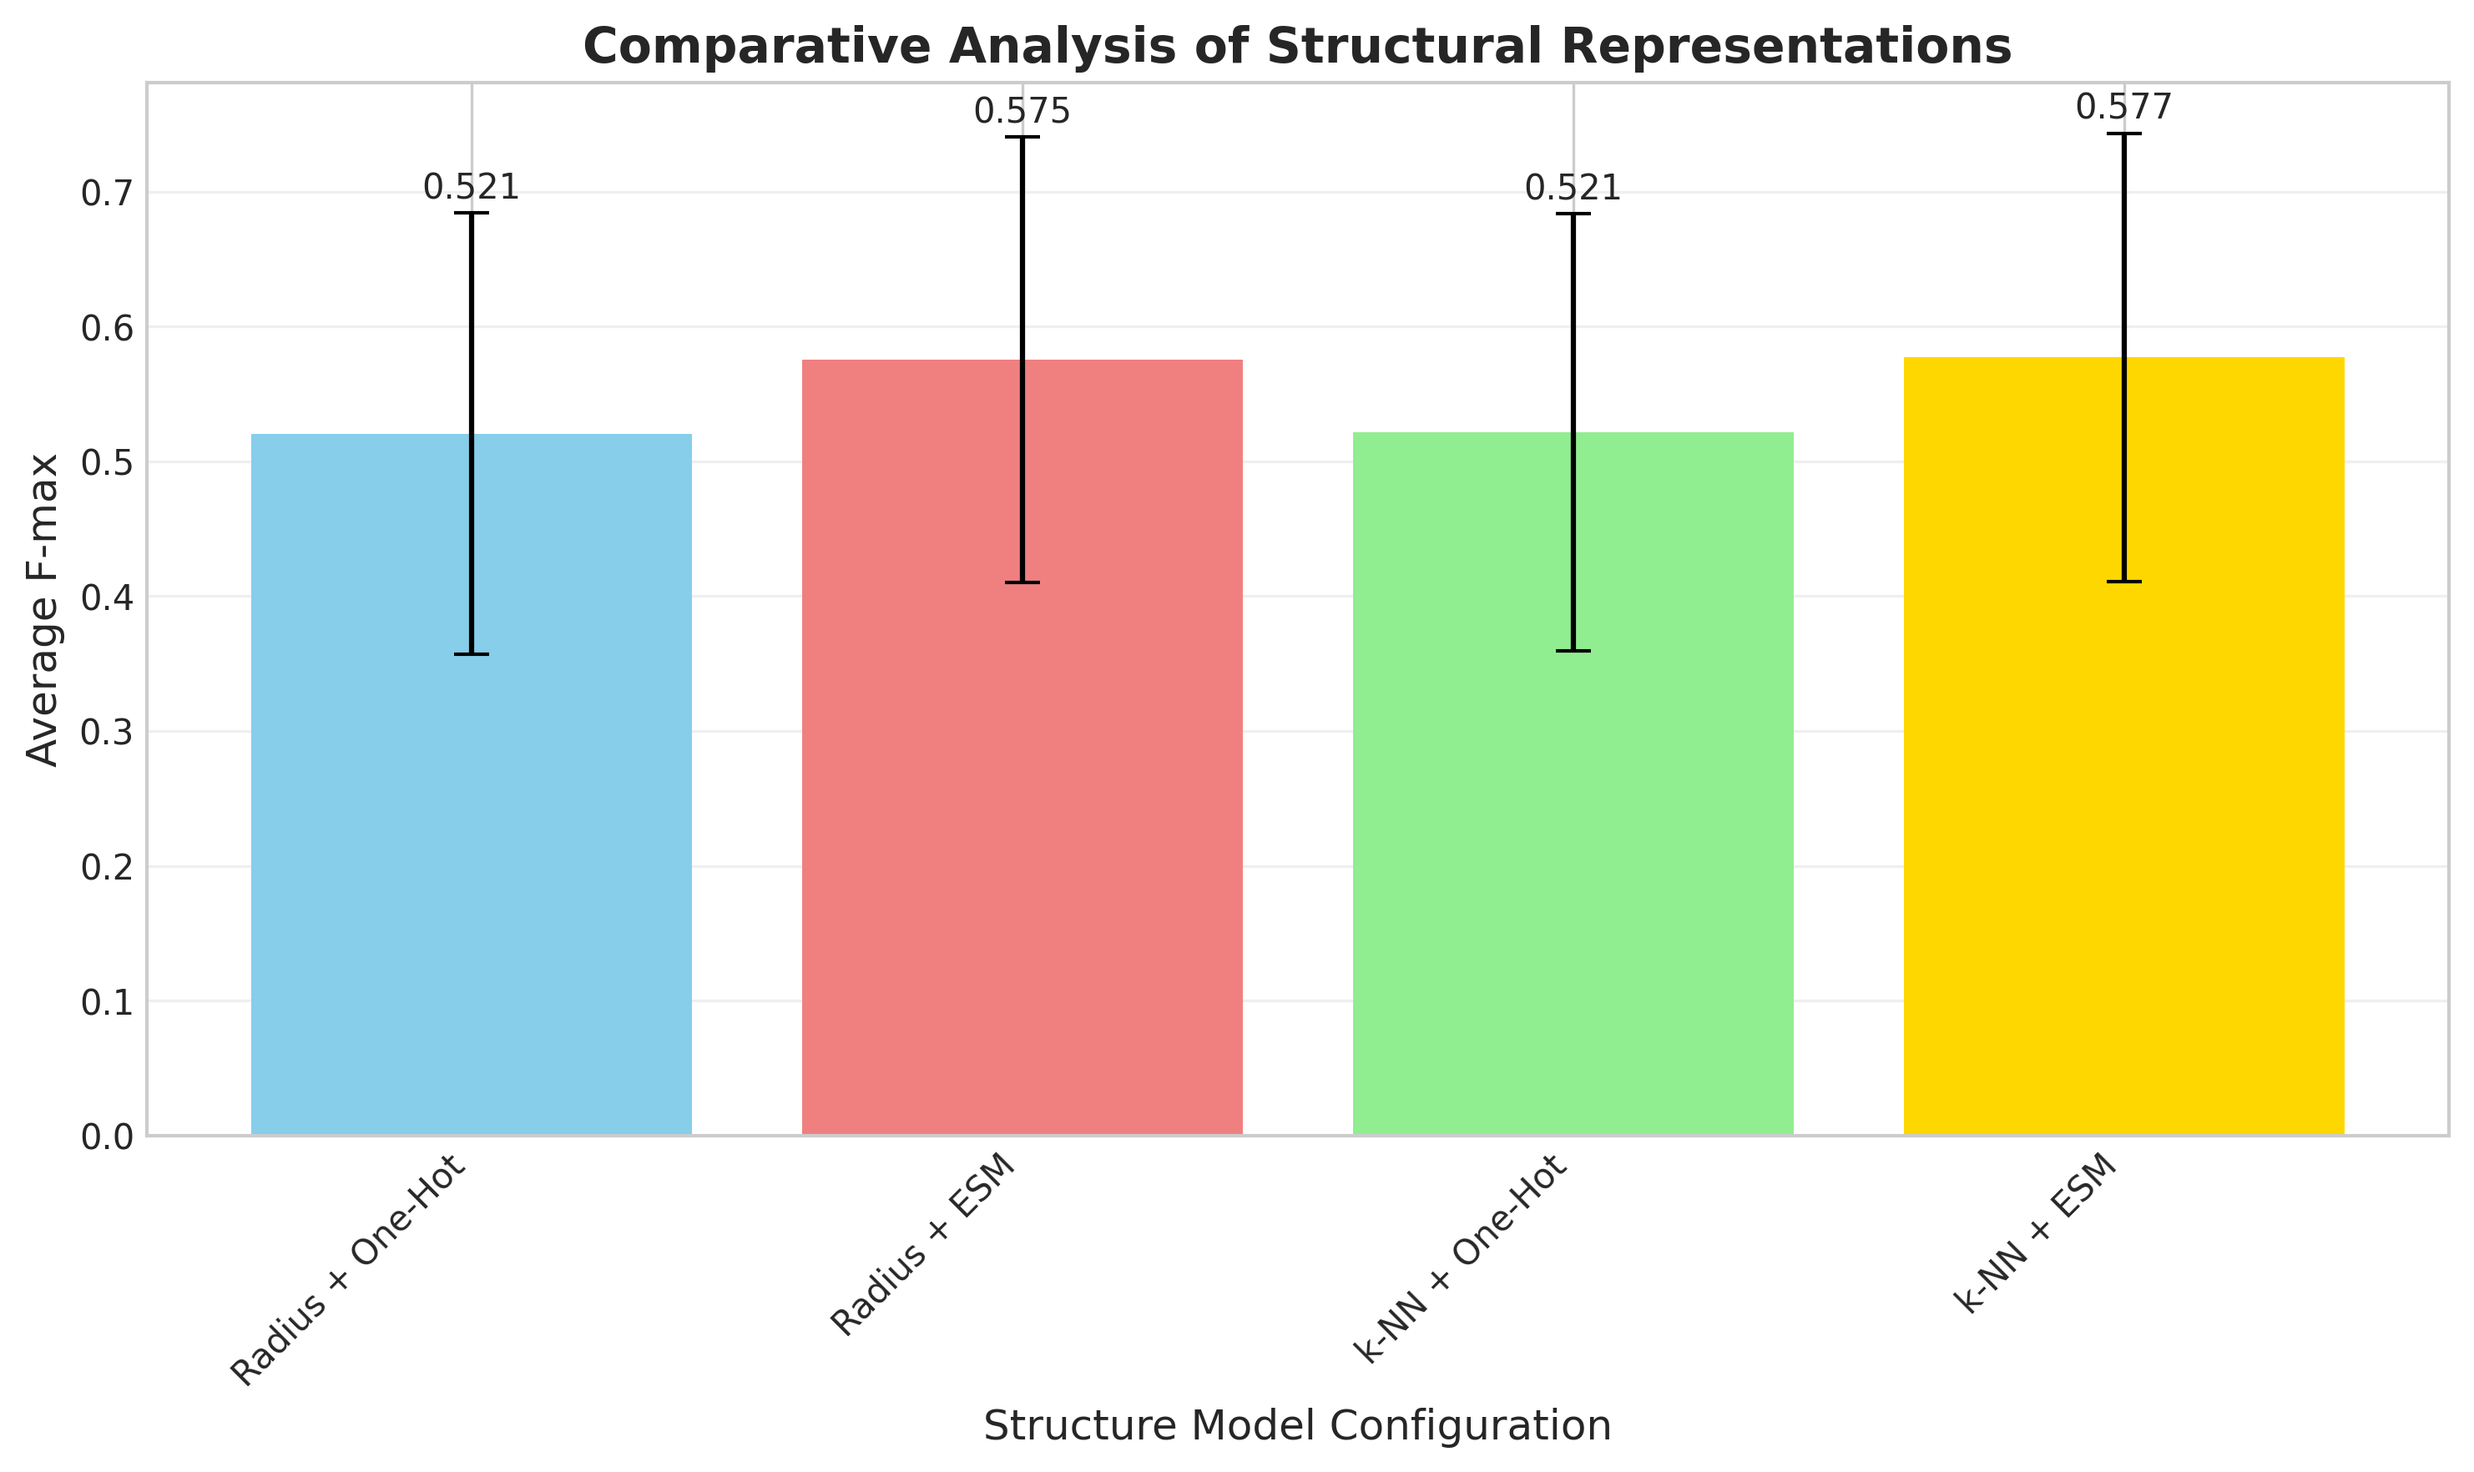
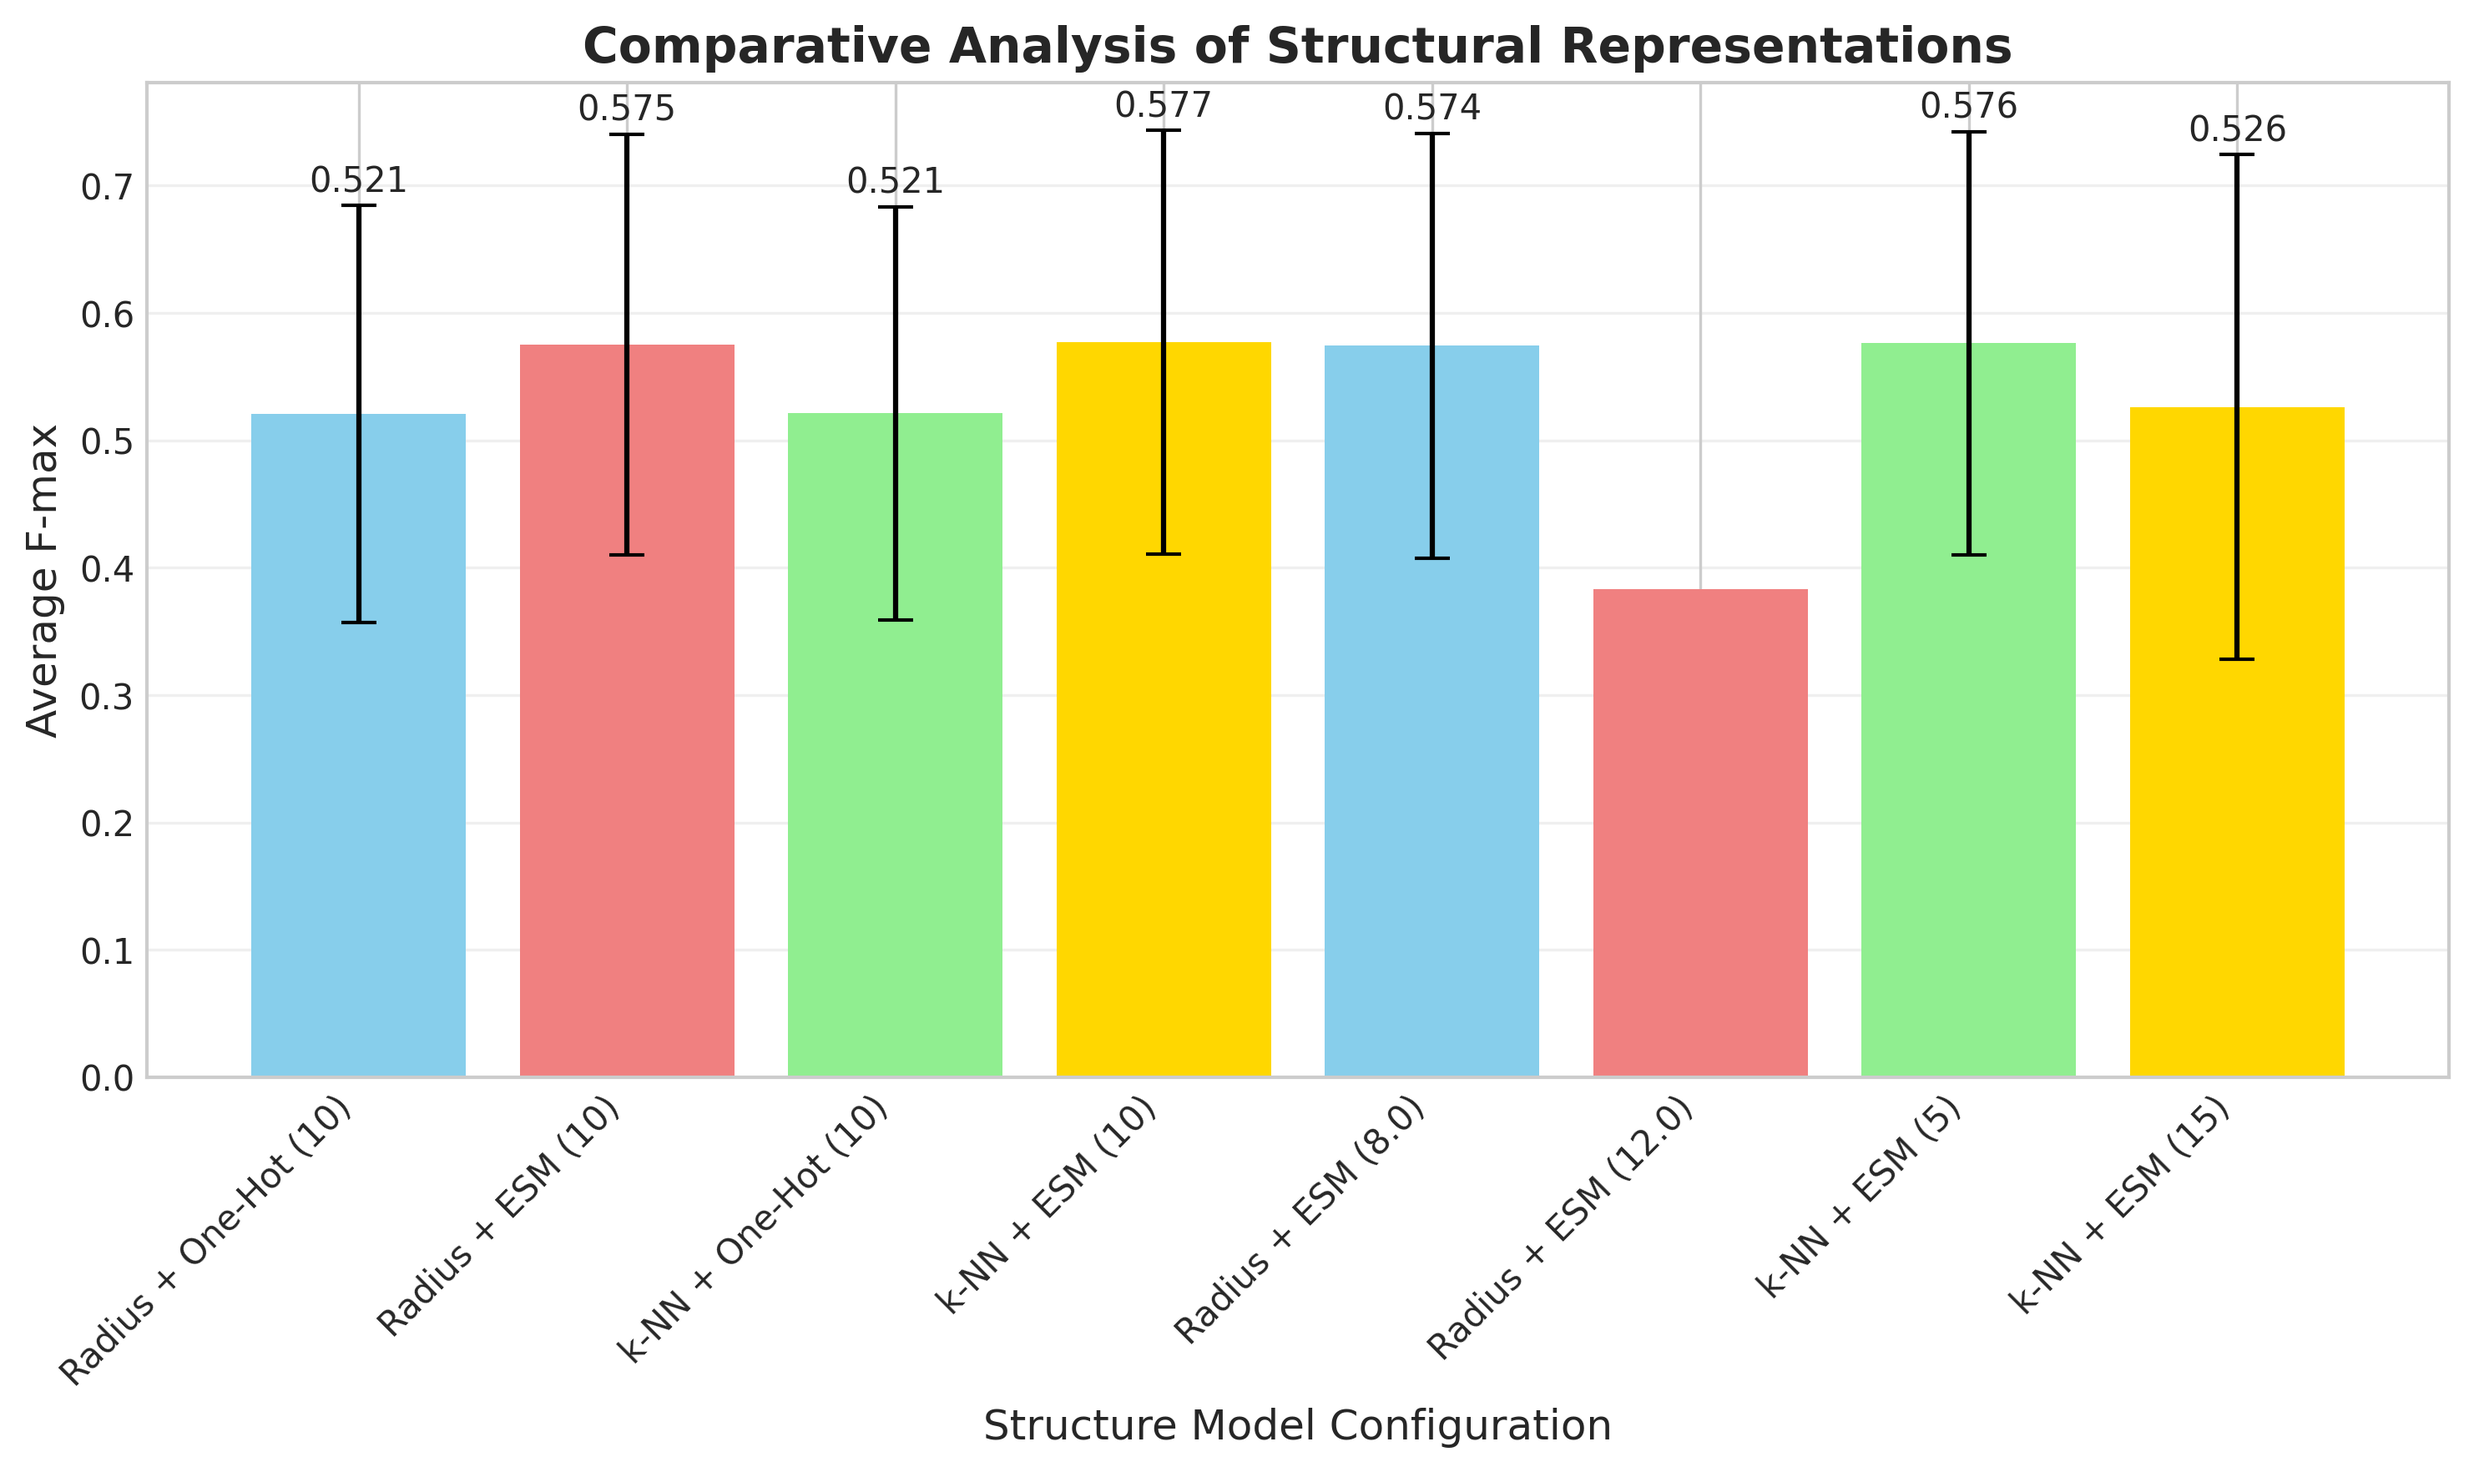
up2date

diff --git a/experiments/multimodal_comparison/experiment_pipeline.py b/experiments/multimodal_comparison/experiment_pipeline.py
@@ -25,16 +25,20 @@ from tqdm import tqdm
 MODEL_NAME_MAP = {
     'A': 'ESM-only',
     'B': 'Text-only',
-    'C1': 'Structure (Radius + One-Hot)',
-    'C2': 'Structure (Radius + ESM)',
-    'C3': 'Structure (k-NN + One-Hot)',
-    'C4': 'Structure (k-NN + ESM)',
+    'C1': 'Structure (Radius + One-Hot) (10.0)',
+    'C2': 'Structure (Radius + ESM) (10.0)',
+    'C3': 'Structure (k-NN + One-Hot) (10.0)',
+    'C4': 'Structure (k-NN + ESM)(10.0)',
     'D': 'ESM + Text',
     'E': 'ESM + Structure',
     'F': 'Full Model',
     'G': 'ESM + Text + Attention',
     'H': 'ESM + Structure + Attention',
     'I': 'Full Model + Attention',
+    'C22': 'Radius + ESM (8.0)',
+    'C23': 'Radius + ESM (12.0)',
+    'C42': 'k-NN + ESM (5)',
+    'C43': 'k-NN + ESM (15)',
 }
 
 # Add project root to path
@@ -274,6 +278,7 @@ class ExperimentGenerator:
                 'radius': 10.0,
                 'use_esm_features': False
             },
+
             # C2: Radius Graph + ESM
             {
                 'name': 'C2_Radius_ESM',
@@ -281,6 +286,19 @@ class ExperimentGenerator:
                 'radius': 10.0,
                 'use_esm_features': True
             },
+            {
+                'name': 'C22_Radius_ESM',
+                'type': 'radius',
+                'radius': 8.0,
+                'use_esm_features': True
+            },
+            {
+                'name': 'C23_Radius_ESM',
+                'type': 'radius',
+                'radius': 12.0,
+                'use_esm_features': True
+            },
+
             # C3: k-NN Graph + One-Hot
             {
                 'name': 'C3_kNN_OneHot',
@@ -293,6 +311,21 @@ class ExperimentGenerator:
                 'name': 'C4_kNN_ESM',
                 'type': 'knn',
                 'k': 10,
+                'use_esm_features': True
+            },
+                        # C4: k-NN Graph + ESM
+            {
+                'name': 'C42_kNN_ESM',
+                'type': 'knn',
+                'k': 5,
+                'use_esm_features': True
+            },
+
+                                    # C4: k-NN Graph + ESM
+            {
+                'name': 'C43_kNN_ESM',
+                'type': 'knn',
+                'k': 15,
                 'use_esm_features': True
             }
         ]
@@ -704,7 +737,7 @@ class ResultsAnalyzer:
             
             # Group B: Structure models
             f.write("\n### Group B: Structure Models\n\n")
-            structure_models = ['C1', 'C2', 'C3', 'C4']
+            structure_models = ['C1', 'C2', 'C3', 'C4', 'C22', 'C23', 'C42', 'C43']
             structure_results = []
             for model in structure_models:
                 model_df = df[df['model'] == model]
@@ -781,12 +814,16 @@ class ResultsAnalyzer:
         fig, ax = plt.subplots(figsize=(12, 8))
         
         # Prepare data for main models
-        main_models = ['A', 'B', 'C2', 'C4', 'D', 'E', 'F', 'G', 'H', 'I']  # Best from each category
+        main_models = ['A', 'B', 'C2', 'C4', 'C22', 'C23', 'C42', 'C43', 'D', 'E', 'F', 'G', 'H', 'I']  # Best from each category
         model_names = {
             'A': 'ESM-only',
             'B': 'Text-only', 
             'C2': 'Structure (Radius+ESM)',
             'C4': 'Structure (kNN+ESM)',
+            'C22': 'Radius + ESM (8.0)',
+            'C23': 'Radius + ESM (12.0)',
+            'C42': 'k-NN + ESM (5)',
+            'C43': 'k-NN + ESM (15)',
             'D': 'ESM+Text',
             'E': 'ESM+Structure',
             'F': 'Full Model',
@@ -845,12 +882,16 @@ class ResultsAnalyzer:
         fig, ax = plt.subplots(figsize=(10, 6))
         
         # Structure models only
-        structure_models = ['C1', 'C2', 'C3', 'C4']
+        structure_models = ['C1', 'C2', 'C3', 'C4', 'C22', 'C23', 'C42', 'C43']
         model_names = {
-            'C1': 'Radius + One-Hot',
-            'C2': 'Radius + ESM',
-            'C3': 'k-NN + One-Hot',
-            'C4': 'k-NN + ESM'
+            'C1': 'Radius + One-Hot (10)',
+            'C2': 'Radius + ESM (10)',
+            'C3': 'k-NN + One-Hot (10)',
+            'C4': 'k-NN + ESM (10)',
+            'C22': 'Radius + ESM (8.0)',
+            'C23': 'Radius + ESM (12.0)',
+            'C42': 'k-NN + ESM (5)',
+            'C43': 'k-NN + ESM (15)',
         }
         
         # Calculate average F-max across aspects
@@ -1024,7 +1065,7 @@ def main():
         for aspect, stats in alignment_summary.items():
             print(f"  {aspect}: {stats['coverage']*100:.1f}% coverage")
         
-    elif args.action == 'generat    e':
+    elif args.action == 'generate':
         # Step 2: Generate experiment configurations
         print("Generating experiment configurations...")
         

diff --git a/experiments/multimodal_comparison/analysis/experiment_report.md b/experiments/multimodal_comparison/analysis/experiment_report.md
@@ -1,6 +1,6 @@
 # Multi-Modal GO Prediction Experimental Results
 
-Generated: 2025-06-16 13:07:03
+Generated: 2025-06-17 11:49:05
 
 ## 1. Best Overall Performance
 
@@ -18,12 +18,16 @@ Generated: 2025-06-16 13:07:03
 
 ### Group B: Structure Models
 
-- Structure (Radius + One-Hot): Average F-max = 0.5205
-- Structure (Radius + ESM): Average F-max = 0.5753
-- Structure (k-NN + One-Hot): Average F-max = 0.5212
-- Structure (k-NN + ESM): Average F-max = 0.5769
+- Structure (Radius + One-Hot) (10.0): Average F-max = 0.5205
+- Structure (Radius + ESM) (10.0): Average F-max = 0.5753
+- Structure (k-NN + One-Hot) (10.0): Average F-max = 0.5212
+- Structure (k-NN + ESM)(10.0): Average F-max = 0.5769
+- Radius + ESM (8.0): Average F-max = 0.5742
+- Radius + ESM (12.0): Average F-max = 0.3834
+- k-NN + ESM (5): Average F-max = 0.5761
+- k-NN + ESM (15): Average F-max = 0.5260
 
-**Best Structure Configuration:** Structure (k-NN + ESM)
+**Best Structure Configuration:** Structure (k-NN + ESM)(10.0)
 
 ### Group C: Multi-Modal Models
 
@@ -53,8 +57,8 @@ Generated: 2025-06-16 13:07:03
 | ESM-only | 0.6678 | 0.2443 | 0.8945 |
 | ESM + Structure | 0.6663 | 0.2211 | 0.8909 |
 | Full Model | 0.6663 | 0.2067 | 0.8838 |
-| Structure (k-NN + ESM) | 0.6658 | 0.2246 | 0.8920 |
-| ESM + Text | 0.6655 | 0.2014 | 0.8831 |
+| k-NN + ESM (15) | 0.6661 | 0.2135 | 0.8923 |
+| Structure (k-NN + ESM)(10.0) | 0.6658 | 0.2246 | 0.8920 |
 
 ### MFO
 
@@ -63,6 +67,6 @@ Generated: 2025-06-16 13:07:03
 | ESM-only | 0.6876 | 0.4301 | 0.9237 |
 | Full Model | 0.6828 | 0.4221 | 0.9154 |
 | ESM + Structure | 0.6824 | 0.4060 | 0.9203 |
-| Structure (k-NN + ESM) | 0.6800 | 0.4168 | 0.9188 |
-| Structure (Radius + ESM) | 0.6782 | 0.4117 | 0.9146 |
+| Structure (k-NN + ESM)(10.0) | 0.6800 | 0.4168 | 0.9188 |
+| k-NN + ESM (5) | 0.6792 | 0.4004 | 0.9185 |
 
